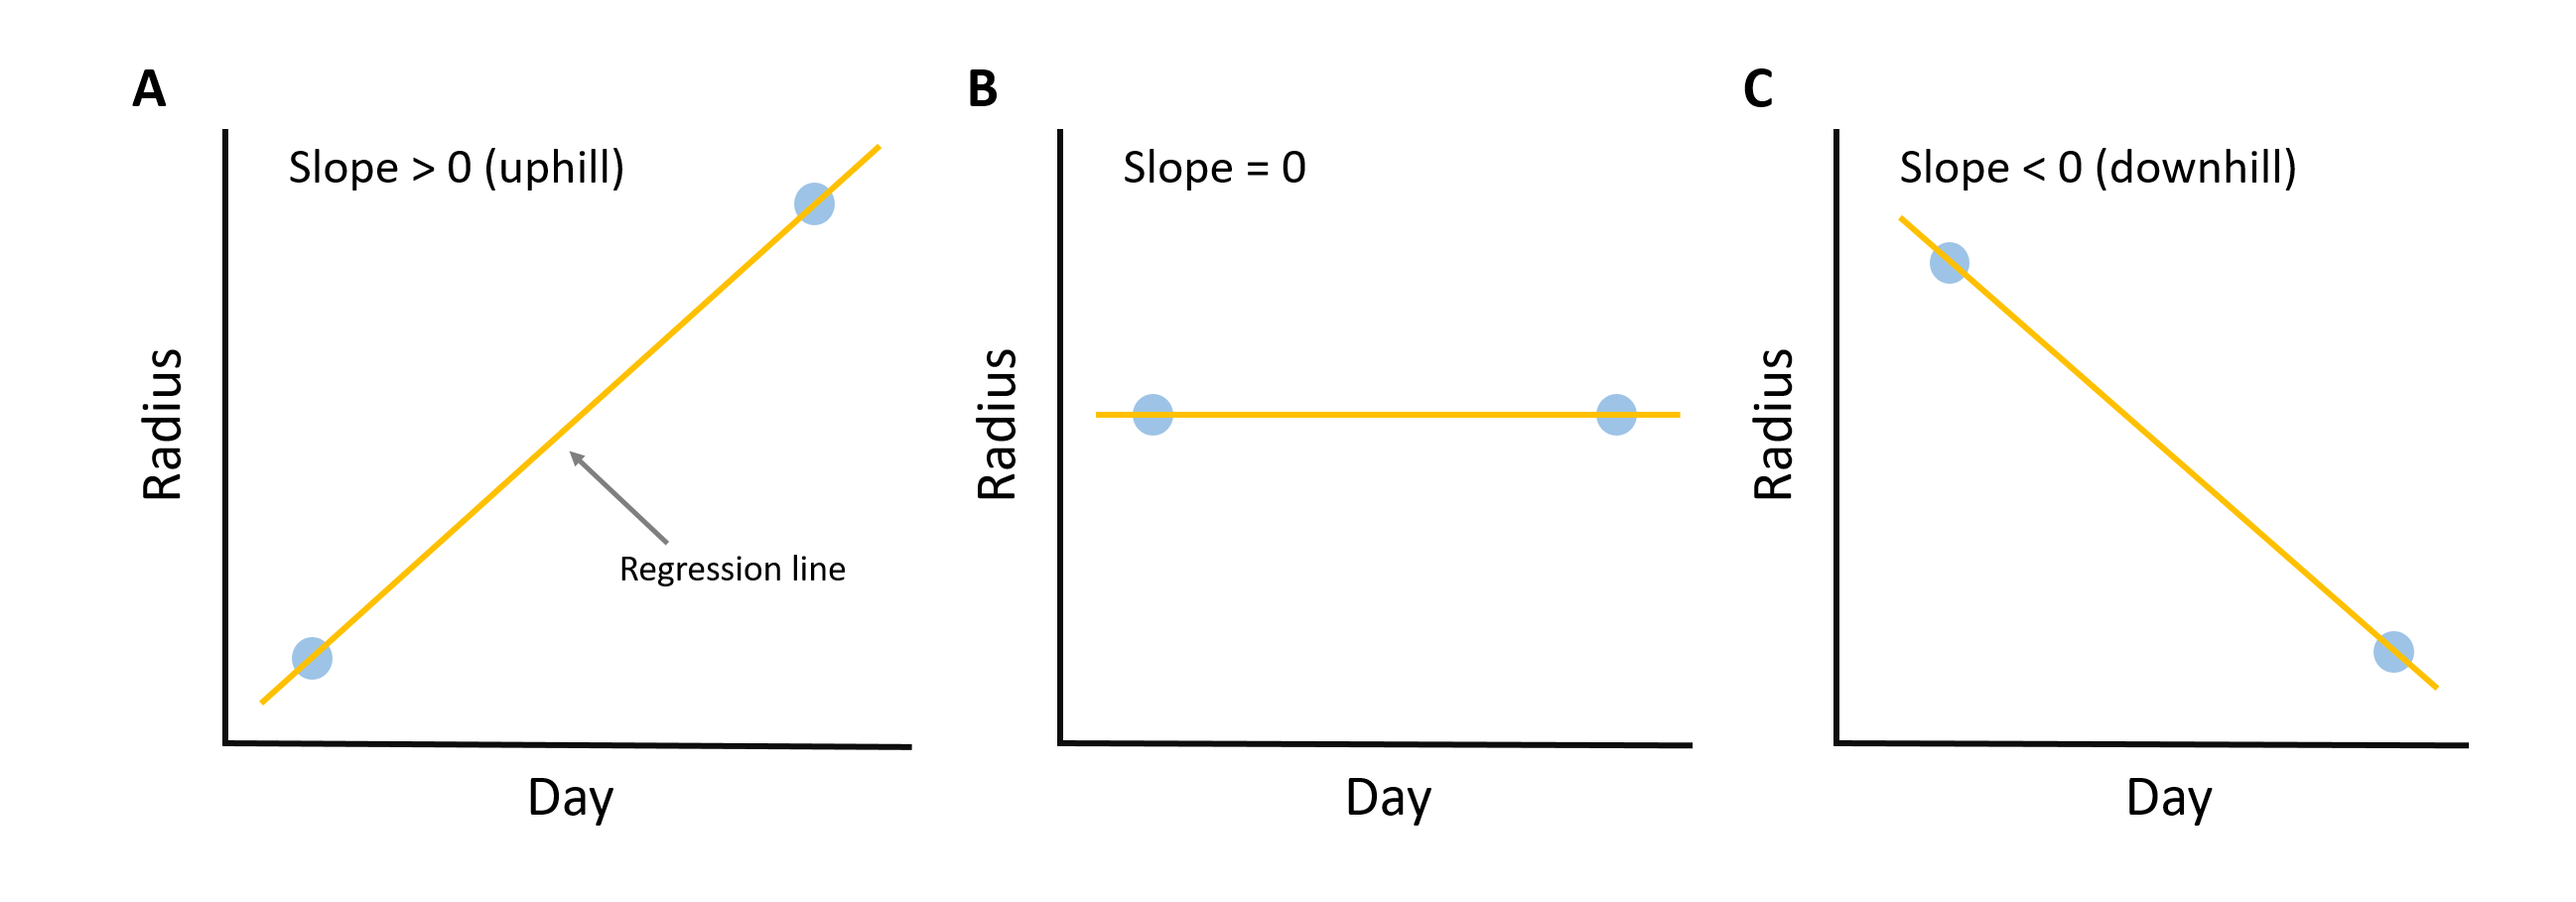
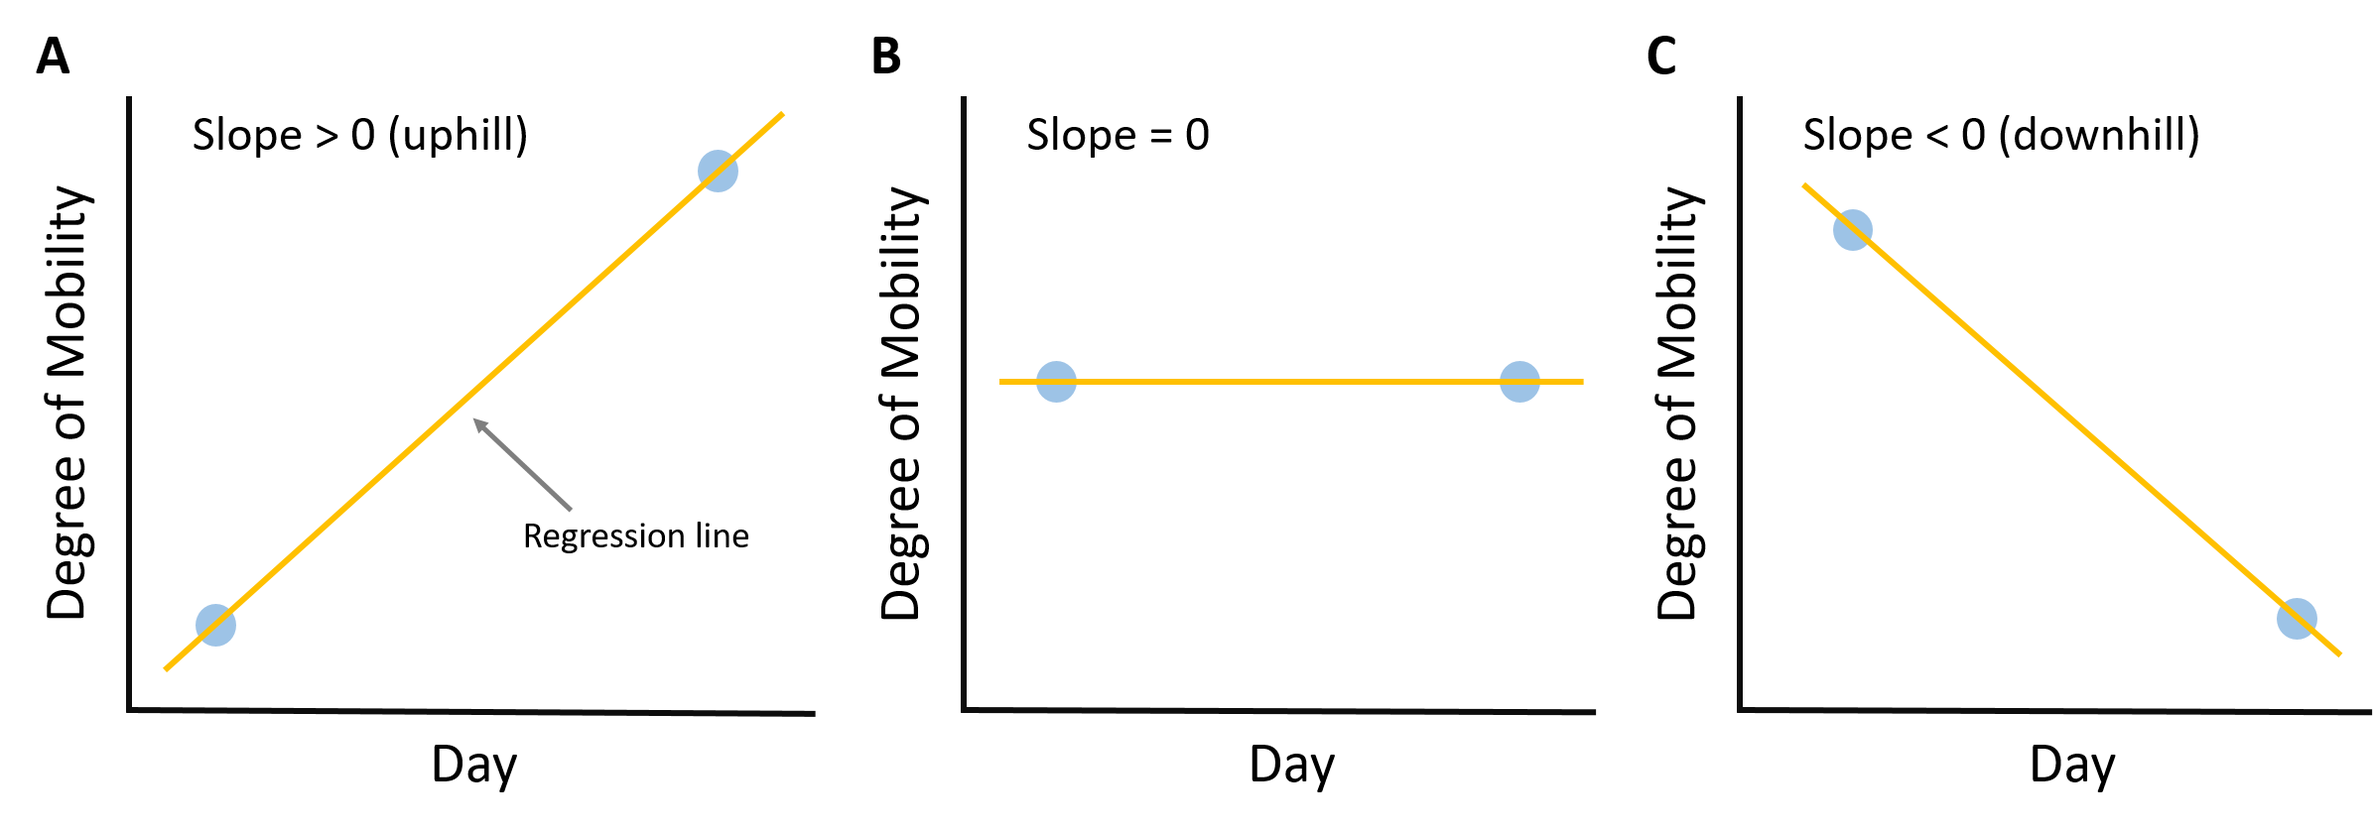
new plots - part 11

diff --git a/Second-report.md b/Second-report.md
@@ -45,14 +45,16 @@ In this report, we show that low-income groups have never attained the same leve
 
 <br>
 <figure class="image" align="center">
-<img src="plots/second-report/eng_trends_periods.png"  width="600"/>
-<figcaption align="center"> <b>Figure 1</b> <div style="text-align: justify">Example of three different scenarios for the slope.</div></figcaption>
+<img src="plots/second-report/uk_trends_periods.png"  width="600"/>
+<figcaption align="center"> <b>Figure 1</b> <div style="text-align: justify">Updated evolution of the mobility activity over time for the UK compared to the baseline (average mobility between 01 and 04 of February 2020). We divided the series into 3 periods: the first one (P1) is highlighted in blue and goes from 11 of March until the day where the partial lockdown was announced in the UK (23 of March). The second period (P2), represented in green, starts when the partial lockdown was announced and finished when the mobility activity levels begin to stabilize (05 of April). Finally, the last period (yellow region of the plot) is defined between 05 and 17 of April. In this last period, we noticed an increase in mobility activity in some regions of the UK.
+</div></figcaption>
 </figure>
 
 <br>
 <figure class="image" align="center">
 <img src="plots/second-report/uk_detailed_regions_before_after_part_1.png"  width="400"/>
-<figcaption align="center"> <b>Figure 2</b> <div style="text-align: justify">Example of three different scenarios for the slope.</div></figcaption>
+<figcaption align="center"> <b>Figure 2</b> <div style="text-align: justify">Comparison between the mobility levels on the end of the second period (05 of April) and the end of the third period (17 of April) in the UK, England, Nothern Ireland, Scotland and Wales. As observed, in most of the regions there was an increase in the mobility activity.
+</div></figcaption>
 </figure>
 
 
@@ -60,9 +62,9 @@ In this report, we show that low-income groups have never attained the same leve
 <br>
 <figure class="image" align="center">
 <img src="plots/second-report/slope_ex.png"  width="600"/>
-<figcaption align="center"> <b>Figure 3</b> <div style="text-align: justify">Example of three different scenarios for the slope.</div></figcaption>
+<figcaption align="center"> <b>Figure 3</b> <div style="text-align: justify">To estimate the direction and magnitude of the levels of degree of mobility in a period, the following approach was adopted: for each period, we used a linear regression model to find a line which connects the point that represents the degree of mobility in the start of the period to the point at the end of the period. The magnitude of the slope of this line will indicate how big was the difference while the sign tells if it was a reduction (negative) or an increase (positive) in the mobility levels. Figure 1 a shows a scenario of increasing mobility (slope > 0) and Figure 1 C depicts the opposite case (slope < 0). A slope value close to zero indicates small difference in the degree of mobility between the points considered.
+</div></figcaption>
 </figure>
-
 
 
 ### First Period: from 11 to 23 of March 2020
@@ -70,13 +72,15 @@ In this report, we show that low-income groups have never attained the same leve
 <br>
 <figure class="image" align="center">
 <img src="plots/second-report/slope_radius_p1.png" width="600"/>
-<figcaption align="center"> <b>Figure 4</b> <div style="text-align: justify">Correlation between the slope of the curve and the income of the local authorities for the period between 23 or March and 05 of April 2020.</div></figcaption>
+<figcaption align="center"> <b>Figure 4</b> <div style="text-align: justify">Analysis of the impact that the population density (A) and annual income (B) of Local Authorities in England have on the slope of the line and the degree of mobility at the end of the period. The groups represented by the green and yellow colours were obtained with the division of the data into two equal-sized groups based on sample quantiles. The lines are the output of linear regression for its respective group (colour). These plots show that the reduction in mobility was greater in areas with low density and the ones with high income.
+</div></figcaption>
 </figure>
 
 <br>
 <figure class="image" align="center">
 <img src="plots/second-report/density_income_p1.png"  width="600"/>
-<figcaption align="center"> <b>Figure 5</b> <div style="text-align: justify">Correlation between the slope of the curve and the income of the local authorities for the period between 11 and 23 of March 2020.</div></figcaption>
+<figcaption align="center"> <b>Figure 5</b> <div style="text-align: justify">In this analysis, we wanted to have a better understanding of how important the population density and the annual income are to the results achieved in terms of the slope and the final degree of mobility. The contours represent the bivariate kernel estimate of the data (https://seaborn.pydata.org/generated/seaborn.kdeplot.html). As can be seen, for the Final degree of mobility, the density attribute is can be relevant than the income (greater colour variation in the direction parallel to the x-axis). On the other hand, the slope of the curve is influenced by both the income and the density attributes (greater colour variation in the diagonal axis).
+</div></figcaption>
 </figure>
 
 ### Second Period: from 23 of March to 05 of April 2020
@@ -84,13 +88,16 @@ In this report, we show that low-income groups have never attained the same leve
 <br>
 <figure class="image" align="center">
 <img src="plots/second-report/slope_radius_p2.png" width="600"/>
-<figcaption align="center"> <b>Figure 6</b> <div style="text-align: justify">Correlation between the slope of the curve and the income of the local authorities for the period between 23 or March and 05 of April 2020.</div></figcaption>
+<figcaption align="center"> <b>Figure 6</b> <div style="text-align: justify">In the second period assessed we observed similar results to the previous period where we can see a reduction in the degree of mobility in both groups of income and population density; however, it worth mentioning that, when compared to the first period, the slope and the final degree od mobility were smaller.
+</div></figcaption>
 </figure>
 
 <br>
 <figure class="image" align="center">
 <img src="plots/second-report/density_income_p2.png"  width="600"/>
-<figcaption align="center"> <b>Figure 7</b> <div style="text-align: justify">Correlation between the slope of the curve and the income of the local authorities for the period between 11 and 23 of March 2020.</div></figcaption>
+<figcaption align="center"> <b>Figure 7</b> <div style="text-align: justify">The results depicted in this figure were similar to the ones in Figure 5 where the population density plays a major factor in the reduction of the final degree of mobility and both the density and the income influence the slope of the curve.
+
+</div></figcaption>
 </figure>
 
 ### Third Period: from 05 to 17 of April 2020
@@ -98,13 +105,15 @@ In this report, we show that low-income groups have never attained the same leve
 <br>
 <figure class="image" align="center">
 <img src="plots/second-report/slope_radius_p3.png" width="600"/>
-<figcaption align="center"> <b>Figure 8</b> <div style="text-align: justify">Correlation between the slope of the curve and the income of the local authorities for the period between 23 or March and 05 of April 2020.</div></figcaption>
+<figcaption align="center"> <b>Figure 8</b> <div style="text-align: justify">Here we start to see the appearance of local authorities which have a positive slope of their line indicating an increase in the mobility degree in this period. Notice that this behaviour was observed in the income and population density groups.
+</div></figcaption>
 </figure>
 
 <br>
 <figure class="image" align="center">
 <img src="plots/second-report/density_income_p3.png"  width="600"/>
-<figcaption align="center"> <b>Figure 9</b> <div style="text-align: justify">Correlation between the slope of the curve and the income of the local authorities for the period between 11 and 23 of March 2020.</div></figcaption>
+<figcaption align="center"> <b>Figure 9</b> <div style="text-align: justify">The colour patterns in this figure are also different from the one depicted in Figure 5 and Figure 7. We can no longer see a clear relationship between income/density and the results in terms of slope and final degree of mobility.
+</div></figcaption>
 </figure>
 
 
@@ -113,7 +122,8 @@ In this report, we show that low-income groups have never attained the same leve
 <br>
 <figure class="image" align="center">
 <img src="plots/second-report/sync_general.png"  width="600"/>
-<figcaption align="center"> <b>Figure 10</b> <div style="text-align: justify">Correlation between the slope of the curve and the income of the local authorities for the period between 11 and 23 of March 2020.</div></figcaption>
+<figcaption align="center"> <b>Figure 10</b> <div style="text-align: justify">
+</div></figcaption>
 </figure>
 
 
